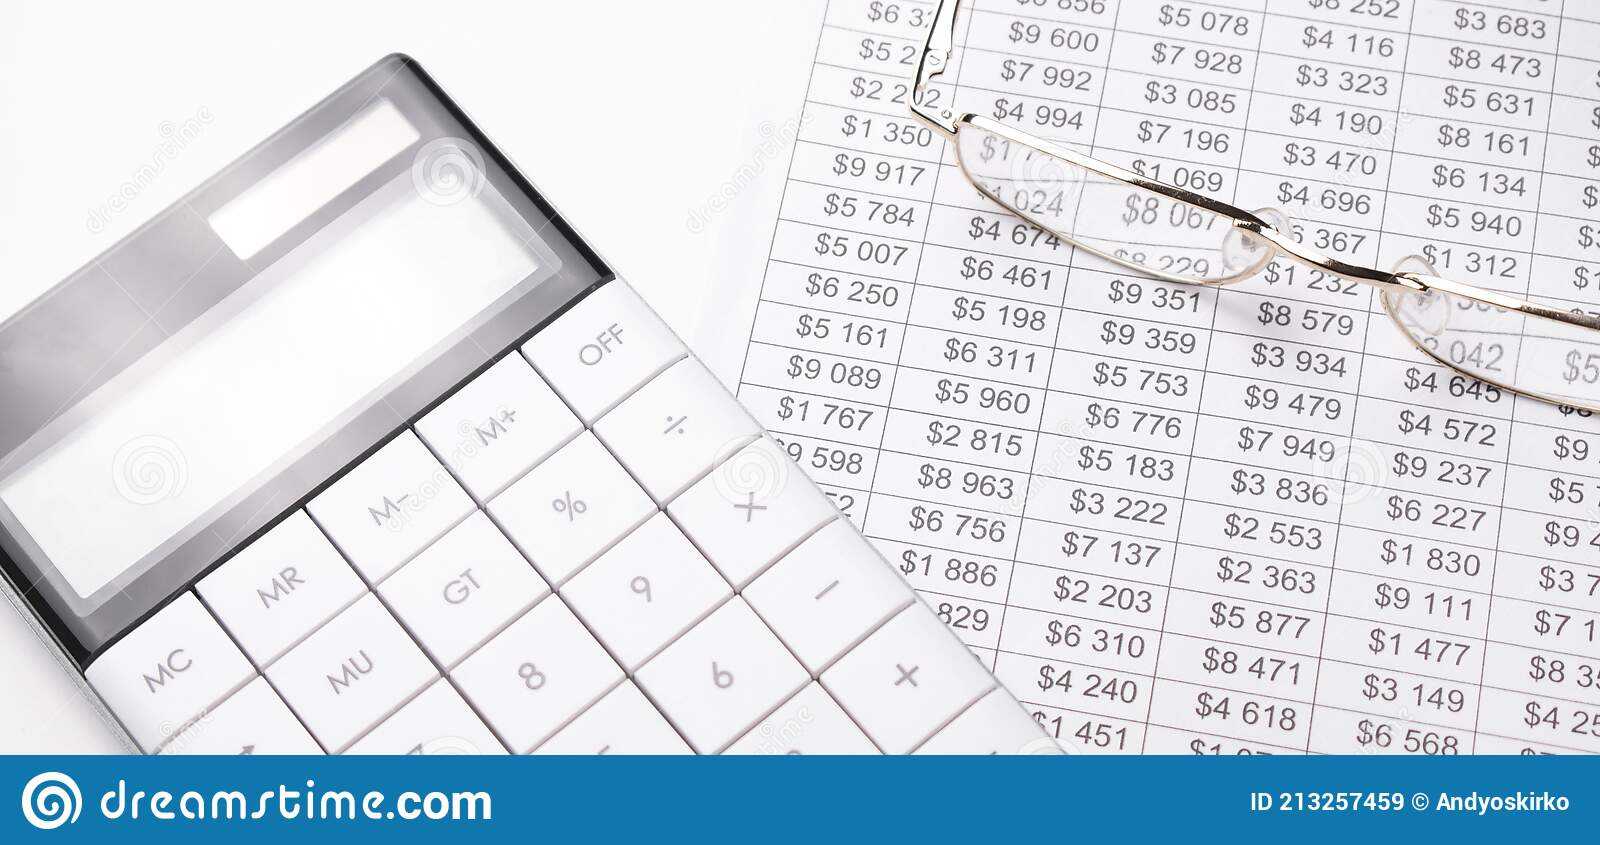
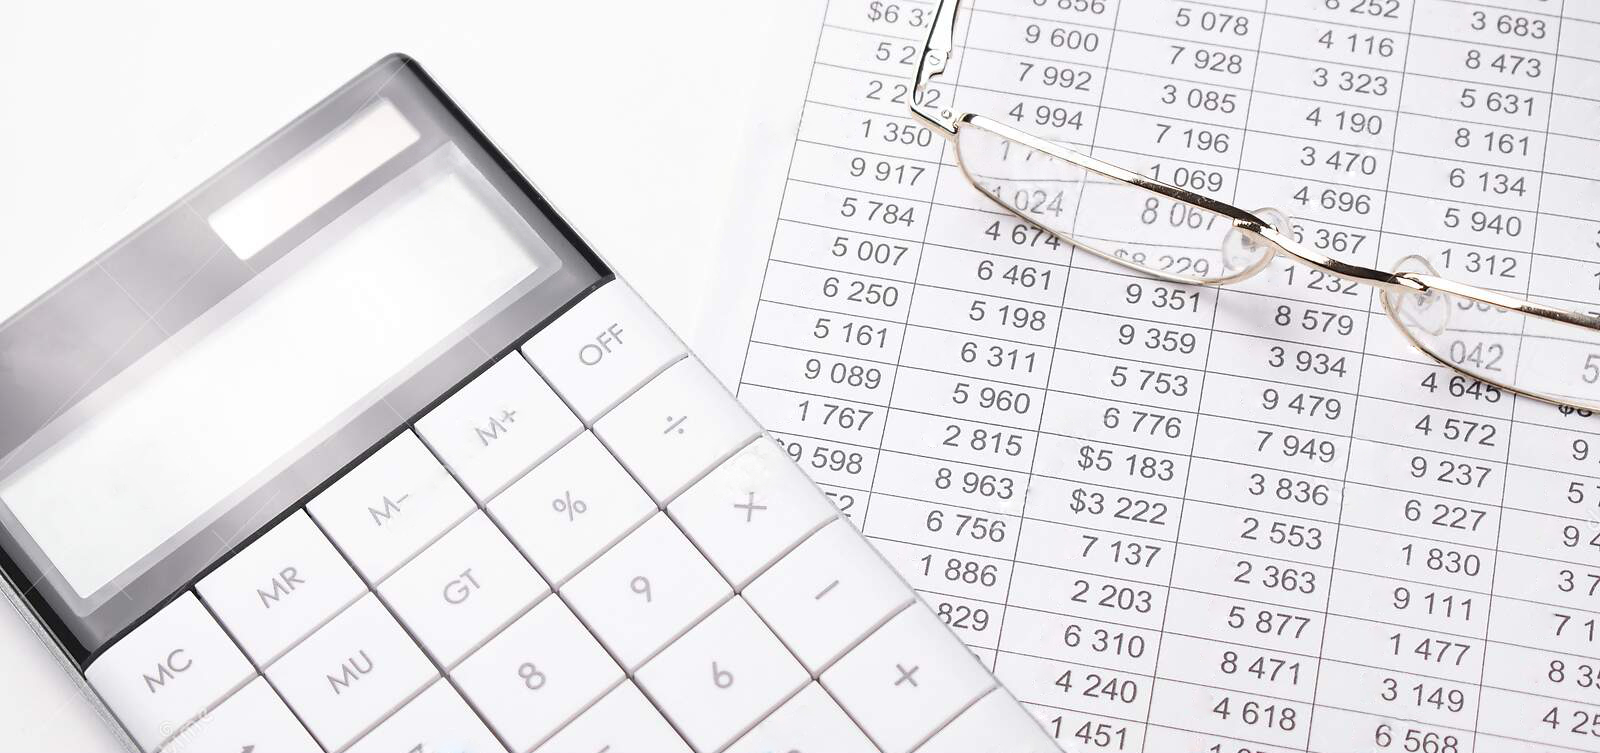
upraven jumbotron obrázek

diff --git a/style.css b/style.css
@@ -1,0 +1,6 @@
+#vedeni-ucetnictvi {
+    background-image: url("./assets/images/matous-burysek-ucetnictvi-Brno.jpeg");
+    background-repeat: no-repeat;
+    background-position: center;
+    background-size: cover;
+}
